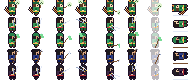
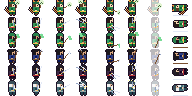
v0.19.0: 冀州篇（上）廣宗・張梁・盧植
Claude-Session: https://claude.ai/code/session_01JiiwSTohZdt9gnXnKPj9ao

diff --git a/data/dialogue.js b/data/dialogue.js
@@ -312,6 +312,75 @@ window.DATA.dialogue = {
   path_blocked4: [
     { speaker: '', text: '往東是宛城，但汝南黃巾彭脫還堵在路上。（先擊敗他。）' }
   ],
+  path_blocked6: [
+    { speaker: '', text: '往北是冀州，但倉亭的卜巳還沒收拾。（先擊敗卜巳。）' }
+  ],
+  jz_intro: [
+    { speaker: '', text: '冀州。大地平坦，田野荒蕪，路邊到處是倒掉的農舍。這裡，是黃巾之亂的起點，也是它的終點。' },
+    { speaker: '劉備', text: '張角兄弟的老巢。……不知道盧植老師，還好嗎。' },
+    { speaker: '關羽', text: '大哥的老師？' },
+    { speaker: '劉備', text: '嗯。我年輕時，在涿縣跟他讀過書。他是天下名儒，也是個難得的將軍。', set: { jz_intro_done: true } },
+    { speaker: '諸葛貓妖', text: '難怪你一路上說話都文縐縐的。……放心，這回換我們來幫老師。' }
+  ],
+  jz_refugee: [
+    { speaker: '老人', text: '廣宗城下，官軍把賊圍得像鐵桶。可是……朝廷的日子也不好過，聽說軍糧斷了好幾回。' }
+  ],
+  jz_scout: [
+    { speaker: '斥候', text: '前面就是廣宗。盧中郎將築了圍、挖了壕，連雲梯都造好了。他說，再給他半個月，張角就是甕中之鱉。' },
+    { speaker: '斥候', text: '可是……營裡最近不太平。朝廷派人來視察了。' }
+  ],
+  gz_intro: [
+    { speaker: '', text: '廣宗城外，土圍連綿，壕溝縱橫。官軍營寨井井有條，這是一場「圍」而不是「攻」的戰爭。' },
+    { speaker: '盧植', text: '……玄德？是你嗎！' },
+    { speaker: '劉備', text: '老師！學生來遲了。', set: { gz_intro_done: true } }
+  ],
+  gz_luzhi: [
+    { speaker: '盧植', text: '十年不見，你居然帶兵來了。好，好。' },
+    { speaker: '盧植', text: '我把張角困在廣宗城裡，築圍掘塹，造了雲梯。城裡的黃巾糧草已盡，只要再耐心些，就能不戰而勝。' },
+    { speaker: '盧植', text: '可是城外還有一股由張梁統領的人馬，守在城門前，不拔掉他，雲梯架不上去。' },
+    { speaker: '劉備', text: '老師，讓學生去。' },
+    { speaker: '盧植', text: '不，我與你們一同去。用兵之道，我還沒有老。', act: { guest: 'luzhi' } },
+    { speaker: '', text: '（盧植助戰入隊。到城門前去找張梁。）' }
+  ],
+  boss_zhangliang: [
+    { speaker: '張梁', text: '官軍？我大哥說了，你們圍得越緊，城裡的人越是一條心！' },
+    { speaker: '盧植', text: '張梁！你們兄弟，聚眾百萬，禍亂天下，今日該有個了結。' },
+    { speaker: '張梁', text: '了結？蒼天已死，黃天當立！我張梁，是人公將軍！' },
+    { speaker: '劉備', text: '人公也好，天公也罷，你們傷了多少百姓，自己心裡清楚。' },
+    { speaker: '張梁', text: '少廢話！弟兄們，列陣！', act: { battle: 'boss8', flag: 'zhangliang_down', after: 'zhangliang_after' } }
+  ],
+  zhangliang_after: [
+    { speaker: '', text: '張梁拔刀死戰，身中數創，退回廣宗城內。城外的黃巾，一時潰不成軍。' },
+    { speaker: '盧植', text: '張梁已敗，城門無人守。再給我一天，雲梯就能架上去。' },
+    { speaker: '', text: '（獲得人公黃巾。）' },
+    { speaker: '', text: '——就在這時，營寨外傳來一陣馬蹄聲。' }
+  ],
+  gz_zuofeng: [
+    { speaker: '左豐', text: '喲，盧中郎將。好久不見。天子聽說廣宗一直攻不下來，派咱家來看看。' },
+    { speaker: '盧植', text: '城即將破，不日可下。左常侍有何指教？' },
+    { speaker: '左豐', text: '指教不敢。軍中辛苦，一點「心意」，不知中郎將備了沒有？' },
+    { speaker: '盧植', text: '軍中糧餉尚且不足，何來餘財賄賂？' },
+    { speaker: '左豐', text: '……好，好，好。咱家記住了。' },
+    { speaker: '劉備', text: '老師！這個人是……' },
+    { speaker: '盧植', text: '玄德，別管他。專心打仗。' },
+    { speaker: '', text: '左豐回到洛陽，奏稱：「廣宗賊易破耳，盧植高壘堅壁，以待天誅。」天子大怒，檻車徵召盧植。', set: { zuofeng_done: true } },
+    { speaker: '盧植', text: '……罷了。罷了。我盧植一生，問心無愧。玄德，這剩下的路，要你們自己走了。' },
+    { speaker: '劉備', text: '老師！我去洛陽為您申冤！' },
+    { speaker: '盧植', text: '不必。天下事，不在一人。若有緣，咱們來日再見。', act: { leave: 'luzhi' } },
+    { speaker: '', text: '朝廷改派董卓接替，董卓攻廣宗無功，不久被撤換。皇甫嵩將從冀州南面趕來，接手大局。' },
+    { speaker: '', text: '【第一章 冀州篇（上）　廣宗・張梁　完】（張寶、張角、三張合體，製作中）' }
+  ],
+  gz_soldier: [
+    { speaker: '守營士兵', text: '盧將軍愛兵如子。上個月我生病，他把自己的米湯分了我一半。' }
+  ],
+  gz_medic: [
+    { speaker: '軍醫', text: '傷員太多，藥快用完了。不過各位若需要休息，我這兒還有地方。',
+      choices: [
+        { label: '傷藥 20金', act: { buy: 'herb' } },
+        { label: '休息 30金', act: { rest: true } },
+        { label: '不用了' }
+      ] }
+  ],
   path_blocked5: [
     { speaker: '', text: '往東是東郡，但宛城的黃巾還沒肅清。（先擊敗韓忠。）' }
   ],
@@ -347,7 +416,8 @@ window.DATA.dialogue = {
     { speaker: '曹操', text: '會的。亂世裡，能再見到幾個可以並肩的人，是福氣。', act: { leave: 'caocao' } },
     { speaker: '皇甫嵩', text: '北邊的冀州，張角兄弟仍在。盧植將軍在那裡，與他們相持不下。各位若願前往，我寫信給他。' },
     { speaker: '', text: '（獲得青銅甲、金 500。）' },
-    { speaker: '', text: '【第一章 中原篇　倉亭・卜巳　完】（冀州篇：張梁、張寶、張角，製作中）' }
+    { speaker: '', text: '【第一章 中原篇　倉亭・卜巳　完】' },
+    { speaker: '', text: '（從倉亭往東北走，前往冀州廣宗。）' }
   ],
   dj_end: [
     { speaker: '皇甫嵩', text: '往北是冀州。盧植將軍在廣宗與張角對峙，那是黃巾之亂的最後一戰。我已寫了信，等你們準備好。' }

diff --git a/data/battle.js b/data/battle.js
@@ -36,7 +36,8 @@ window.DATA.battle = {
     guanyu: ['qinglong'],
     zhangfei: ['roar'],
     zoujing: ['roar'],
-    caocao: ['strategy', 'inspire']
+    caocao: ['strategy', 'inspire'],
+    luzhi: ['rally', 'strategy']
   },
   // 選了路線之後才解鎖（只限諸葛貓妖）。每項為 [解鎖等級, 技能]
   routeSkills: {
@@ -55,6 +56,7 @@ window.DATA.battle = {
     bocai: { name: '波才', terrain: { plain: 'A', forest: 'B', mountain: 'B', sea: 'C' }, int: 40, lead: 30, luck: 10, title: '潁川黃巾大帥', cls: '大帥', weapon: '刀', desc: '潁川黃巾的大帥，數萬之眾的統領。曾擊敗朱儁並圍困皇甫嵩，兵多而營草，最怕火。', hp: 5000, atk: 71, def: 32, spd: 13, exp: 360, gold: 320, sprite: 6, boss: true, ai: 'boss' },
     qushuai: { name: '黃巾渠帥', terrain: { plain: 'A', forest: 'B', mountain: 'B', sea: 'C' }, int: 28, lead: 22, luck: 10, title: '黃巾渠帥', cls: '渠帥', weapon: '刀', desc: '廣陽黃巾的首領，兵力雄厚，會全體衝鋒與重斬。', hp: 2600, atk: 52, def: 26, spd: 12, exp: 200, gold: 200, sprite: 5, boss: true, ai: 'boss' },
     veteran: { name: '黃巾悍卒', terrain: { plain: 'B', forest: 'B', mountain: 'A', sea: 'C' }, int: 10, lead: 6, luck: 5, title: '黃巾悍卒', cls: '精兵', weapon: '刀', desc: '身經百戰的黃巾老卒，穿著鐵甲，打起來像一堵牆。', hp: 170, atk: 28, def: 16, spd: 10, exp: 40, gold: 40, sprite: 11 },
+    zhangliang: { name: '張梁', terrain: { plain: 'A', forest: 'B', mountain: 'A', sea: 'C' }, int: 44, lead: 34, luck: 10, title: '人公將軍', cls: '大帥', weapon: '刀', desc: '張角的三弟，自稱人公將軍，守在廣宗城外。黃巾軍中最有章法的一股，不會輕易亂陣。', hp: 11800, atk: 104, def: 48, spd: 12, exp: 760, gold: 640, sprite: 13, boss: true, ai: 'boss' },
     busi: { name: '卜巳', terrain: { plain: 'A', forest: 'B', mountain: 'B', sea: 'B' }, int: 28, lead: 30, luck: 8, title: '東郡黃巾渠帥', cls: '渠帥', weapon: '刀', desc: '東郡黃巾的首領，駐紮在倉亭，人多勢眾、力氣很大，但不太會用腦。', hp: 9400, atk: 95, def: 44, spd: 12, exp: 620, gold: 520, sprite: 12, boss: true, ai: 'boss' },
     pengtuo: { name: '彭脫', terrain: { plain: 'A', forest: 'S', mountain: 'B', sea: 'C' }, int: 34, lead: 26, luck: 9, title: '汝南黃巾渠帥', cls: '渠帥', weapon: '刀', desc: '汝南黃巾的首領，熟悉山林水澤，在森林裡特別難纏。', hp: 5800, atk: 76, def: 35, spd: 13, exp: 440, gold: 380, sprite: 7, boss: true, ai: 'boss' },
     zhaohong: { name: '趙弘', terrain: { plain: 'B', forest: 'B', mountain: 'A', sea: 'C' }, int: 30, lead: 28, luck: 8, title: '宛城黃巾大帥', cls: '大帥', weapon: '槍', desc: '宛城黃巾的大帥，聚眾十餘萬，佔據宛城。', hp: 7400, atk: 86, def: 40, spd: 12, exp: 480, gold: 420, sprite: 8, boss: true, ai: 'boss' },
@@ -70,6 +72,8 @@ window.DATA.battle = {
     boss3:  [ ['bocai', 'elite', 'elite', 'archer', 'archer'] ],
     field4: [ ['veteran', 'elite', 'archer'], ['veteran', 'veteran', 'archer'], ['captain', 'veteran', 'elite', 'archer'], ['veteran', 'veteran', 'elite', 'archer', 'bandit'], ['captain', 'captain', 'veteran'] ],
     field5: [ ['veteran', 'veteran', 'elite', 'archer'], ['veteran', 'captain', 'archer', 'archer'], ['elite', 'elite', 'veteran', 'bandit', 'archer'], ['captain', 'veteran', 'veteran', 'veteran'] ],
+    field6: [ ['veteran', 'veteran', 'elite', 'archer'], ['captain', 'veteran', 'archer', 'archer'], ['elite', 'elite', 'veteran', 'veteran', 'archer'], ['captain', 'captain', 'veteran', 'elite'] ],
+    boss8:  [ ['zhangliang', 'veteran', 'veteran', 'elite', 'elite', 'archer'] ],
     boss4:  [ ['pengtuo', 'veteran', 'veteran', 'archer', 'archer'] ],
     boss5:  [ ['zhaohong', 'veteran', 'veteran', 'elite', 'archer'] ],
     boss7:  [ ['busi', 'veteran', 'veteran', 'elite', 'elite', 'archer'] ],
@@ -82,7 +86,7 @@ window.DATA.battle = {
 // rematch：旗標 → 敵人 id；rematchRate：每次遇敵時，有任一頭目被打倒的話，出現殘部的機率。
 (function () {
   const B = window.DATA.battle;
-  B.rematch = { boss_down: 'chengyuanzhi', boss2_down: 'qushuai', bocai_down: 'bocai', pengtuo_down: 'pengtuo', zhaohong_down: 'zhaohong', hanzhong_down: 'hanzhong', busi_down: 'busi' };
+  B.rematch = { boss_down: 'chengyuanzhi', boss2_down: 'qushuai', bocai_down: 'bocai', pengtuo_down: 'pengtuo', zhaohong_down: 'zhaohong', hanzhong_down: 'hanzhong', busi_down: 'busi', zhangliang_down: 'zhangliang' };
   B.rematchRate = 0.05;
   Object.keys(B.rematch).forEach(function (f) {
     const id = B.rematch[f], e = B.enemies[id];

diff --git a/data/maps.js b/data/maps.js
@@ -353,7 +353,7 @@ window.DATA.maps = {
       'T.........f............T',
       'T..................b...T',
       'T......YYY.............T',
-      ',,,,,,,,,,,,,,,,,,,,,,,T',
+      ',,,,,,,,,,,,,,,,,,,,,,,,',
       'T......YYY.............T',
       'T......................T',
       'T...f.......~~~~.......T',
@@ -369,7 +369,8 @@ window.DATA.maps = {
       { once: 'dj_intro_done', dialogue: 'dj_intro' }
     ],
     warps: [
-      { x: 0, y: 10, to: 'wancheng', tx: 22, ty: 10, dir: 'left' }
+      { x: 0, y: 10, to: 'wancheng', tx: 22, ty: 10, dir: 'left' },
+      { x: 23, y: 10, to: 'jizhou', tx: 1, ty: 10, dir: 'right', need: 'busi_down', deny: 'path_blocked6' }
     ],
     npcs: [
       { id: 'busi', name: '卜巳', sprite: 12, x: 18, y: 10, dir: 'left', dialogue: 'boss_busi', hideIf: 'busi_down' },
@@ -377,6 +378,90 @@ window.DATA.maps = {
       { id: 'huangfu4', name: '皇甫嵩', sprite: 16, x: 8, y: 12, dir: 'right', dialogue: 'dj_end', showIf: 'busi_down' },
       { id: 'djsoldier', name: '運糧的民夫', sprite: 7, x: 5, y: 8, dir: 'down', dialogue: 'dj_porter' },
       { id: 'djscout', name: '探子', sprite: 9, x: 14, y: 7, dir: 'left', dialogue: 'dj_scout' }
+    ],
+    objects: []
+  },
+  jizhou: {
+    name: '冀州路',
+    battleBg: 'grass',
+    home: { map: 'dongjun' },
+    encounter: { group: 'field6', rate: 0.09, minSteps: 4 },
+    tiles: [
+      'TTTTTTTTTTTTTTTTTTTTTTTT',
+      'T.MMMM.........YYYY....T',
+      'T.MMMM.........YYYY....T',
+      'T.MMM..................T',
+      'T......f...............T',
+      'T..........,,..........T',
+      'T..YYY.....,,....MMM...T',
+      'T..YYY.....,,....MMM...T',
+      'T..........,,..........T',
+      'T..........,,..........T',
+      ',,,,,,,,,,,,,,,,,,,,,,,,',
+      'T..........,,..........T',
+      'T...f......,,....YYY...T',
+      'T..........,,....YYY...T',
+      'T..MM......,,..........T',
+      'T..MM......,,.......f..T',
+      'T..........,,..........T',
+      'T..YYYYY...............T',
+      'T..YYYYY...............T',
+      'TTTTTTTTTTTTTTTTTTTTTTTT'
+    ],
+    start: { x: 1, y: 10, dir: 'right' },
+    events: [
+      { once: 'jz_intro_done', dialogue: 'jz_intro' }
+    ],
+    warps: [
+      { x: 0, y: 10, to: 'dongjun', tx: 22, ty: 10, dir: 'left' },
+      { x: 23, y: 10, to: 'guangzong', tx: 1, ty: 10, dir: 'right' }
+    ],
+    npcs: [
+      { id: 'jzrefugee', name: '逃難的老人', sprite: 7, x: 6, y: 9, dir: 'right', dialogue: 'jz_refugee' },
+      { id: 'jzscout', name: '盧植軍斥候', sprite: 9, x: 13, y: 12, dir: 'left', dialogue: 'jz_scout' }
+    ],
+    objects: []
+  },
+  guangzong: {
+    name: '廣宗',
+    battleBg: 'grass',
+    home: { map: 'jizhou' },
+    encounter: { group: 'field6', rate: 0.05, minSteps: 6 },
+    tiles: [
+      'TTTTTTTTTTTTTTTTTTTTTTTT',
+      'T..RRRRR......RRRRR....T',
+      'T..RRRRR......RRRRR....T',
+      'T..WWDWW......WWDWW....T',
+      'T......................T',
+      'T......f...............T',
+      'T..................f...T',
+      'T......................T',
+      'T......................T',
+      'T......................T',
+      ',,,,,,,,,,,,,,,,,,,,,,,T',
+      'T......................T',
+      'T.....f................T',
+      'T..RRRR........RRRR....T',
+      'T..RRRR........RRRR....T',
+      'T..WDWW........WWDW....T',
+      'T......................T',
+      'T..YYYY................T',
+      'T..YYYY................T',
+      'TTTTTTTTTTTTTTTTTTTTTTTT'
+    ],
+    start: { x: 1, y: 10, dir: 'right' },
+    events: [
+      { once: 'gz_intro_done', dialogue: 'gz_intro' }
+    ],
+    warps: [
+      { x: 0, y: 10, to: 'jizhou', tx: 22, ty: 10, dir: 'left' }
+    ],
+    npcs: [
+      { id: 'luzhi', name: '盧植', sprite: 19, x: 5, y: 6, dir: 'right', dialogue: 'gz_luzhi', hideIf: 'guest_luzhi' },
+      { id: 'zhangliang', name: '張梁', sprite: 21, x: 17, y: 10, dir: 'left', dialogue: 'boss_zhangliang', showIf: 'guest_luzhi', hideIf: 'zhangliang_down' },
+      { id: 'zuofeng', name: '左豐', sprite: 20, x: 7, y: 6, dir: 'left', dialogue: 'gz_zuofeng', showIf: 'zhangliang_down', hideIf: 'zuofeng_done' },
+      { id: 'gzsoldier', name: '守營士兵', sprite: 9, x: 9, y: 12, dir: 'up', dialogue: 'gz_soldier' },
+      { id: 'gzmedic', name: '軍醫', sprite: 10, x: 5, y: 16, dir: 'down', dialogue: 'gz_medic' }
     ],
     objects: []
   },

diff --git a/tests/yingchuan_test.js b/tests/yingchuan_test.js
@@ -24,7 +24,7 @@ const sleep = ms => new Promise(r => setTimeout(r, ms));
   // 地圖資料：每列等長、字元都在 legend、NPC／傳送點落在可走的格子、對話都存在
   const md = await page.evaluate(() => {
     const D = DATA, out = [];
-    ['yingchuan', 'changshe', 'runan', 'wancheng', 'dongjun'].forEach(id => {
+    ['yingchuan', 'changshe', 'runan', 'wancheng', 'dongjun', 'jizhou', 'guangzong'].forEach(id => {
       const m = D.maps[id], w = m.tiles[0].length;
       if (!m.tiles.every(r => r.length === w)) out.push(id + ' ragged');
       m.tiles.forEach((r, y) => [...r].forEach((ch, x) => { if (!(ch in D.legend)) out.push(id + ' bad tile ' + ch); }));
@@ -125,6 +125,23 @@ const sleep = ms => new Promise(r => setTimeout(r, ms));
   for (let i = 0; i < 90 && (await S()).scene === 'BattleScene'; i++) await tap('z');
   await sleep(900); await talk(); await sleep(400); await talk(); s = await S();
   check('busi_down set, caocao leaves the party', s.flags.busi_down === true && !s.ids.includes('caocao'), { f: s.flags.busi_down, ids: s.ids, sc: s.scene, g: s.gold });
+  // 冀州篇（一）：廣宗・張梁・盧植
+  await go('dongjun', 22, 10, 'right'); await sleep(150); await tap('ArrowRight'); await sleep(500); await talk();
+  check('dongjun east exit leads to jizhou after busi', (await S()).map === 'jizhou', (await S()).map);
+  await go('jizhou', 22, 10, 'right'); await sleep(150); await tap('ArrowRight'); await sleep(500); await talk();
+  check('jizhou east exit leads to guangzong', (await S()).map === 'guangzong', (await S()).map);
+  await page.evaluate(() => { Game.party = Game.party.filter(m => m.id !== 'caocao'); Game.party = Game.party.slice(0, 4); });
+  await face('guangzong', 4, 6, 'right'); await sleep(400); await talk();
+  s = await S();
+  check('luzhi joins as a guest', s.ids.includes('luzhi') && s.flags.guest_luzhi === true, s.ids);
+  await face('guangzong', 16, 10, 'right'); await sleep(500);
+  check('zhangliang starts boss8', (await S()).scene === 'BattleScene');
+  await page.evaluate(() => { const t = Engine.top(); t.b.enemies.forEach(e => { e.hp = 0; e.dhp = 0; }); t.finish('win'); });
+  for (let i = 0; i < 90 && (await S()).scene === 'BattleScene'; i++) await tap('z');
+  await sleep(900); await talk(); await sleep(400); await talk(); s = await S();
+  check('zhangliang_down set', s.flags.zhangliang_down === true, s.flags);
+  await face('guangzong', 6, 6, 'right'); await sleep(400); await talk(); await sleep(400); await talk(); s = await S();
+  check('zuofeng scene: luzhi leaves the party', s.flags.zuofeng_done === true && !s.ids.includes('luzhi'), { f: s.flags.zuofeng_done, ids: s.ids });
   check('no JS errors', errors.length === 0, errors);
   console.log(`${pass} passed, ${fail} failed`);
   await browser.close(); process.exit(fail ? 1 : 0);

diff --git a/tools/sim_battle.js b/tools/sim_battle.js
@@ -120,9 +120,9 @@ for (let t = 0; t < TRIALS; t++) {
     stat.w4[key] = (stat.w4[key] || 0) + (rb.o === 'win' ? 1 : 0); stat.n4[key] = (stat.n4[key] || 0) + 1;
     return rb.o === 'win';
   };
-  if (stage(N4, 'boss4', 'b4') && stage(2, 'boss5', 'b5') && stage(2, 'boss6', 'b6')) stage(3, 'boss7', 'b7', 'field5');
+  if (stage(N4, 'boss4', 'b4') && stage(2, 'boss5', 'b5') && stage(2, 'boss6', 'b6') && stage(3, 'boss7', 'b7', 'field5')) { const lu = mk('luzhi'); BL.gainExp(lu, BL.expFor(party[0].level)); party.pop(); party.push(lu); stage(4, 'boss8', 'b8', 'field6'); }
 }
 console.log(`route=${route} fights=${N}: field losses ${stat.lossField}/${TRIALS}; boss win ${stat.winBoss}/${stat.n}; avg nyao Lv ${(stat.avgLv/stat.n).toFixed(1)}; avg boss rounds ${(stat.avgRounds/stat.n).toFixed(1)}`);
 console.log(`stage2 fights=${N2}: boss2 win ${stat.win2}/${stat.n2}; avg nyao Lv ${(stat.lv2/Math.max(1,stat.n2)).toFixed(1)}`);
-console.log('stage4 (N4=' + (process.argv[6] === undefined ? 5 : +process.argv[6]) + ') ' + ['b4','b5','b6','b7'].map(k => k + ' ' + (stat.w4[k]||0) + '/' + (stat.n4[k]||0) + ' Lv' + ((stat.lv4[k]||0)/Math.max(1,stat.n4[k]||0)).toFixed(1)).join('; '));
+console.log('stage4 (N4=' + (process.argv[6] === undefined ? 5 : +process.argv[6]) + ') ' + ['b4','b5','b6','b7','b8'].map(k => k + ' ' + (stat.w4[k]||0) + '/' + (stat.n4[k]||0) + ' Lv' + ((stat.lv4[k]||0)/Math.max(1,stat.n4[k]||0)).toFixed(1)).join('; '));
 console.log(`stage3 fights=${process.argv[5] === undefined ? 5 : +process.argv[5]}: boss3 win ${stat.win3}/${stat.n3}; avg nyao Lv ${(stat.lv3/Math.max(1,stat.n3)).toFixed(1)}`);

diff --git a/data/equipment.js b/data/equipment.js
@@ -34,6 +34,7 @@ window.DATA.equipment = {
   iron_helm2:  { name: '紫纓盔',   slot: 'helm', mods: { def: 4, lead: 2 }, price: 0, desc: '趙弘戴過的紫纓鐵盔' },
   war_blade:   { name: '赤紋刀',   slot: 'weapon', wtype: '刀', mods: { pow: 22 }, price: 0, desc: '韓忠的佩刀，刀背刻著赤紋' },
   bronze_armor: { name: '青銅甲', slot: 'armor', mods: { def: 9 }, price: 0, desc: '卜巳穿在身上的青銅重甲，很重，但很硬' },
+  renkong_sash: { name: '人公黃巾', slot: 'helm', mods: { lead: 4, int: 3, def: 3 }, price: 0, desc: '張梁頭上的黃巾，繡著「人公」二字' },
   // 專屬武器
   qinglong:    { name: '青龍偃月刀', slot: 'weapon', wtype: '刀', mods: { pow: 18, lead: 2 }, only: 'guanyu', price: 0, desc: '關羽專屬。刀光如青龍' },
   serpent:     { name: '丈八蛇矛', slot: 'weapon', wtype: '矛', mods: { pow: 18, grd: 2 }, only: 'zhangfei', price: 0, desc: '張飛專屬。一矛橫掃一片' },
@@ -47,6 +48,7 @@ window.DATA.drops = {
   zhaohong: ['iron_helm2', 1.0],
   hanzhong: ['war_blade', 1.0],
   busi: ['bronze_armor', 1.0],
+  zhangliang: ['renkong_sash', 1.0], zhangliang_r: ['renkong_sash', 0.2],
   veteran: ['leather', 0.12],
   bocai_r: ['scale', 0.25], pengtuo_r: ['river_charm', 0.2], zhaohong_r: ['iron_helm2', 0.2], hanzhong_r: ['war_blade', 0.2], busi_r: ['bronze_armor', 0.2], chengyuanzhi_r: ['rebel_blade', 0.2], qushuai_r: ['yellow_scarf', 0.3],
   elite: ['leather', 0.1],

diff --git a/data/characters.js b/data/characters.js
@@ -58,7 +58,15 @@ window.DATA.characters = {
     growth: { hp: 19, atk: 1.6, int: 1.8, spd: 0.4, lead: 1.4, luck: 0.6, grd: 0.8, tp: 0.7 },
     trait: { name: '亂世奸雄', desc: '統率 +3、運氣 +2', mods: { lead: 3, luck: 2 } },
     bio: '沛國譙人，奉詔以騎都尉之職南下討伐潁川黃巾。機智果斷，笑起來讓人不太放心。'
+  },
+  luzhi: {
+    id: 'luzhi', name: '盧植', sprite: 19, portrait: 15, zi: '子幹', title: '北中郎將', cls: '儒將', weapon: '劍', guest: true,
+    terrain: { plain: 'A', forest: 'B', mountain: 'B', sea: 'C' },
+    hp: 190, tp: 12, atk: 18, int: 28, spd: 9, lead: 32, luck: 8, grd: 14,
+    growth: { hp: 22, atk: 1.5, int: 2.0, spd: 0.3, lead: 1.5, luck: 0.4, grd: 1.0, tp: 0.8 },
+    trait: { name: '海內大儒', desc: '統率 +4、智力 +3', mods: { lead: 4, int: 3 } },
+    bio: '涿郡涿縣人，劉備年輕時的老師，天下聞名的大儒，也是出色的將領。奉命北上討伐張角，築圍掘塹，把黃巾主力困在廣宗城裡。'
   }
 };
 // 非隊員的對話頭像（說話者名稱 → portraits.png 的編號）
-window.DATA.npcPortraits = { '皇甫嵩': 6, '波才': 7, '朱儁': 8, '孫堅': 9, '彭脫': 10, '趙弘': 11, '韓忠': 12, '孫夏': 13, '卜巳': 14 };
+window.DATA.npcPortraits = { '皇甫嵩': 6, '波才': 7, '朱儁': 8, '孫堅': 9, '彭脫': 10, '趙弘': 11, '韓忠': 12, '孫夏': 13, '卜巳': 14, '盧植': 15, '張梁': 16, '左豐': 17 };

diff --git a/src/battle_scene.js b/src/battle_scene.js
@@ -6,7 +6,7 @@
 const CMDS = ['攻擊', '計謀', '道具', '全體攻擊', '防禦', '逃跑', '偵察'];
   const MSG_MS = 520, DMG_MS = 480;
   // 戰鬥小人（24×24，有武器與揮砍／施法動作）所在的列；沒有的人暫時用地圖小人
-  const BATTLE_ROW = { nyao: 0, liubei: 1, guanyu: 2, zhangfei: 3, caocao: 4 };
+  const BATTLE_ROW = { nyao: 0, liubei: 1, guanyu: 2, zhangfei: 3, caocao: 4, luzhi: 5 };
 
   class BattleScene {
     // group：敵人 id 陣列；opts：{ boss, canFlee, onEnd(result) }，result 為 'win'|'lose'|'flee'

diff --git a/src/version.js b/src/version.js
@@ -1,3 +1,3 @@
 // 遊戲版本號。發佈新版時，這裡與 package.json 的 version 必須一起改成相同的值。
-window.GAME_VERSION = '0.18.4';
+window.GAME_VERSION = '0.19.0';
 window.GAME_REPO = 'defance16042-lgtm/chuanyue-sanguo';

diff --git a/tools/build_portrait_guest.py b/tools/build_portrait_guest.py
@@ -109,9 +109,13 @@ sunxia = face((50, 84, 60), ((140, 200, 150), (80, 140, 90), (50, 96, 64)), (240
 
 busi = face((74, 40, 40), ((220, 90, 70), (170, 50, 44), (110, 34, 34)), (60, 60, 70), (220, 170, 130), (30, 22, 24), helm=((100, 100, 112), (60, 60, 70)), plume=(230, 200, 60), beard='long', wild=True, brow=3)
 
-sheet = Image.new('RGBA', (48 * 15, 48))
+luzhi = face((54, 80, 84), ((160, 190, 190), (84, 120, 130), (50, 76, 88)), (70, 110, 120), (230, 190, 156), (240, 240, 240), cap=(50, 70, 82), beard='long', brow=2, wrinkles=True)
+zhangliang = face((100, 70, 30), ((246, 214, 88), (214, 170, 46), (150, 110, 36)), (160, 90, 40), (224, 172, 130), (50, 36, 30), helm=((240, 206, 72), (190, 150, 40)), plume=(230, 120, 40), beard='long', wild=True, brow=3)
+zuofeng = face((70, 44, 84), ((190, 130, 210), (120, 60, 140), (80, 40, 96)), (230, 200, 90), (244, 212, 180), (30, 28, 34), cap=(30, 28, 34), beard='none', brow=1)
+
+sheet = Image.new('RGBA', (48 * 18, 48))
 sheet.paste(base, (0, 0))
-for i, im in enumerate([zoujing(), caocao, huang, bocai, zhujun, sunjian, pengtuo, zhaohong, hanzhong, sunxia, busi]):
+for i, im in enumerate([zoujing(), caocao, huang, bocai, zhujun, sunjian, pengtuo, zhaohong, hanzhong, sunxia, busi, luzhi, zhangliang, zuofeng]):
     sheet.paste(im, (48 * (4 + i), 0))
 sheet.save(P)
 print('ok', sheet.size)

diff --git a/tools/build_assets.py b/tools/build_assets.py
@@ -414,6 +414,10 @@ CHARACTERS = [
     ("huangfusong", dict(pal=((232, 190, 156), (236, 236, 240), (92, 108, 140), (200, 200, 210), (50, 54, 70)), beard="long", hat=(150, 160, 184), plume=(190, 60, 60))),
     ("caocao", dict(pal=((236, 200, 164), (30, 26, 30), (60, 40, 70), (190, 50, 56), (40, 30, 40)), beard="short", hat=(36, 30, 40))),
     ("bocai", dict(pal=((222, 170, 128), (34, 26, 24), (226, 178, 46), (170, 60, 40), (60, 40, 30)), beard="long", wild=True, hat=(236, 200, 60), plume=(170, 60, 40))),
+    # 19: 盧植（北中郎將：青灰戰袍、白鬚、儒冠） 20: 左豐（小黃門：紫袍、無鬚、黑帽） 21: 張梁（人公將軍：黃袍、黃巾、長鬚）
+    ("luzhi", dict(pal=((232, 192, 158), (240, 240, 240), (70, 110, 120), (150, 170, 170), (50, 60, 70)), beard="long", hat=(60, 80, 90))),
+    ("zuofeng", dict(pal=((244, 212, 180), (30, 28, 34), (120, 60, 140), (230, 200, 90), (60, 40, 50)), hat=(30, 28, 34))),
+    ("zhangliang", dict(pal=((226, 176, 136), (50, 36, 30), (230, 190, 60), (160, 90, 40), (60, 40, 30)), beard="long", hat=(236, 200, 60), plume=(230, 120, 40))),
 ]
 DIRS = ("down", "up", "left", "right")
 

diff --git a/tools/build_battle16.py b/tools/build_battle16.py
@@ -110,6 +110,7 @@ PARTY = [
     (dict(BA.CHARACTERS[2][1]), "glaive"),
     (dict(BA.CHARACTERS[3][1]), "spear"),
     (dict(BA.CHARACTERS[17][1]), "swords"),     # 曹操
+    (dict(BA.CHARACTERS[19][1]), "swords"),     # 盧植
 ]
 ENEMIES = [
     # 黃巾兵：黃頭巾、褐衣、長矛
@@ -138,6 +139,8 @@ ENEMIES = [
     (dict(pal=((250, 214, 176), (60, 40, 30), (150, 150, 165), (200, 170, 60), (60, 40, 30)), hat=YEL), "sabre"),
     # 卜巳：東郡黃巾，黑盔、赤甲、粗眉大鬍、大斧（用刀架）
     (dict(pal=((220, 170, 130), (30, 22, 24), (170, 50, 44), (60, 60, 70), (60, 40, 30)), beard="long", hat=(60, 60, 70), plume=(230, 200, 60)), "sabre"),
+    # 張梁：人公將軍，黃盔橘纓、金甲、長鬚、闊刀
+    (dict(BA.CHARACTERS[21][1]), "sabre"),
 ]
 
 
